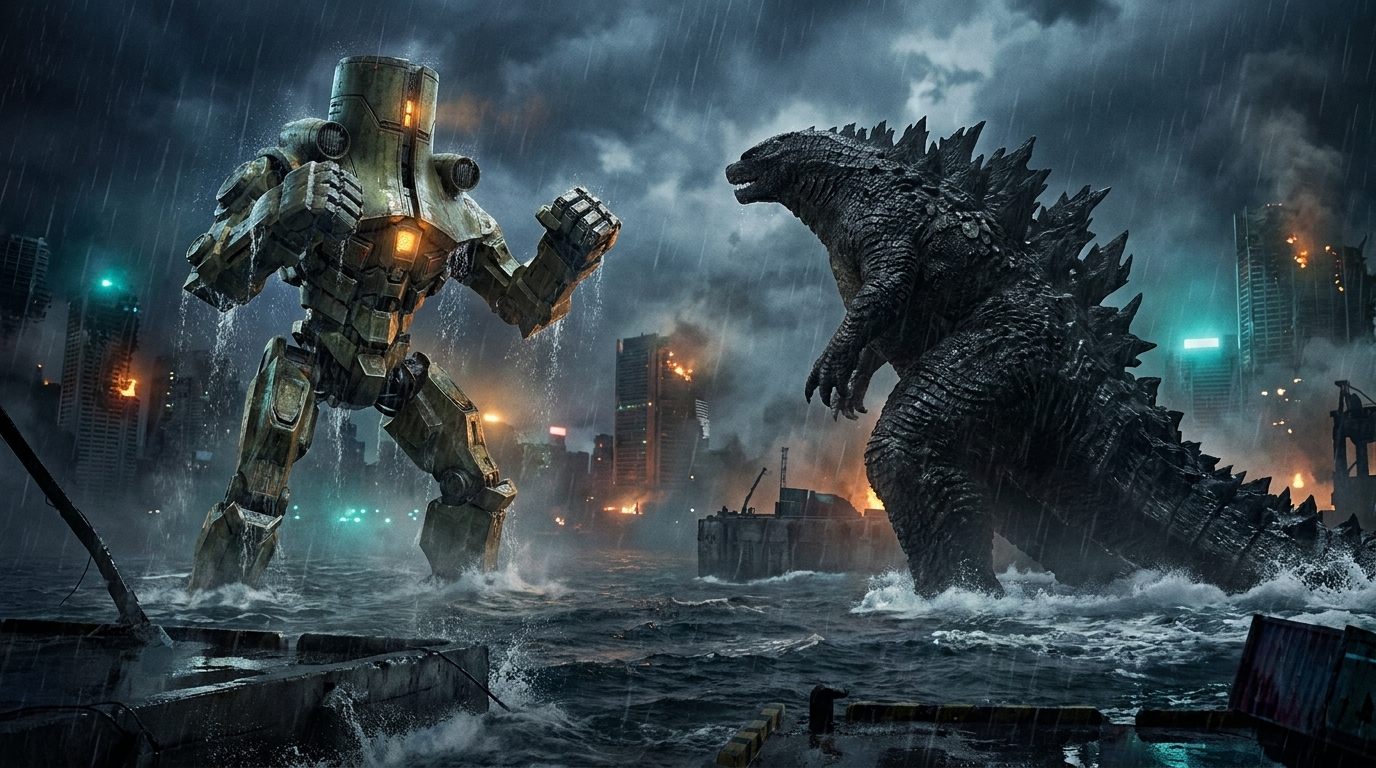
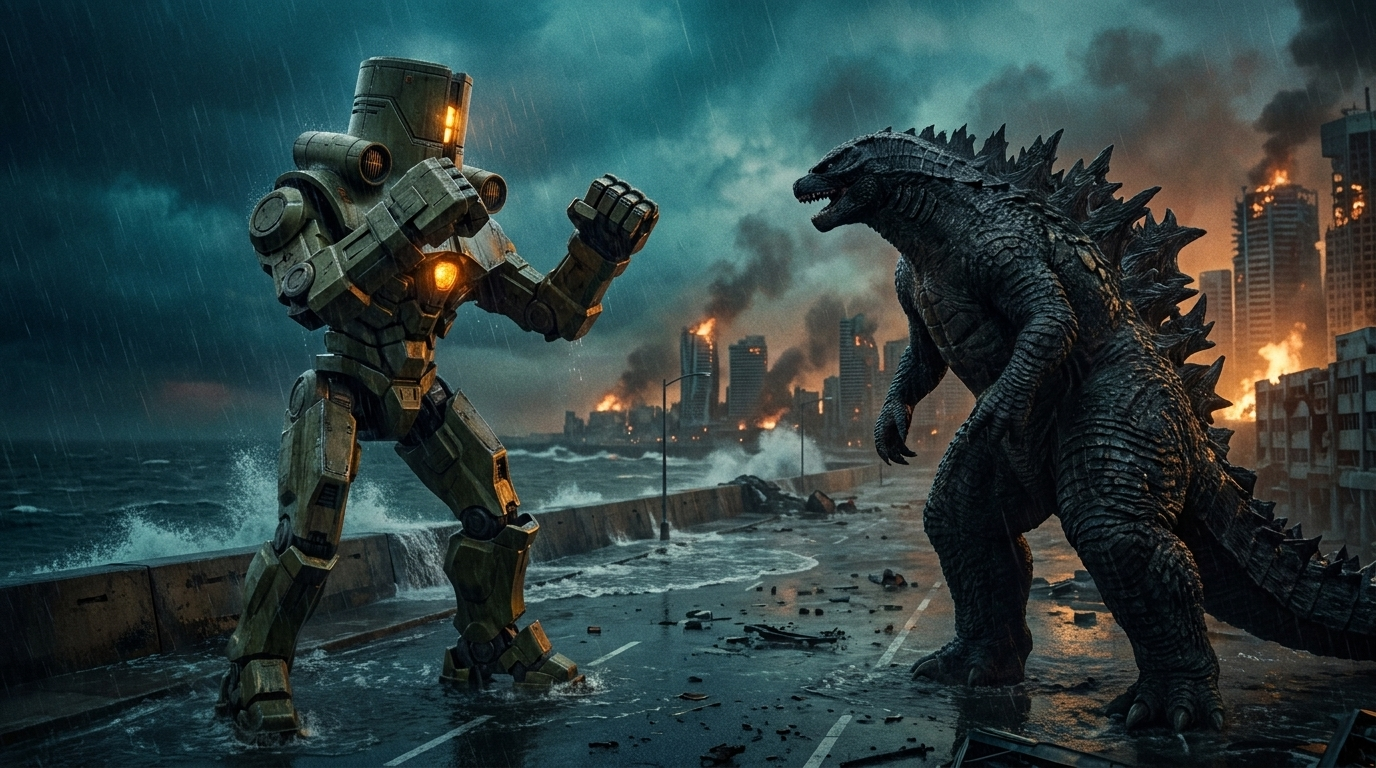
Fix beat_02 (shot_05-08) seawall-to-street jump trajectory and landing recoil continuity

diff --git a/scripts/studio/manifest.py b/scripts/studio/manifest.py
@@ -557,6 +557,8 @@ def shot_reference_paths(manifest: dict, shot: dict, proj_dir: Path = None, limi
 
     for p in shot.get("reference_images", []):
         push(p)
+    if shot.get("strict_reference_images") and ordered:
+        return ordered[:limit] if limit else ordered
 
     # Nếu shot có ô tham chiếu bố cục cắt từ Storyboard Grid và đang cần nâng cấp lên Hero Frame 1080p
     if shot.get("grid_panel_start_path") and shot.get("use_grid_layout_ref", True):

diff --git a/projects/cherno-alpha-vs-godzilla/PROGRESS.md b/projects/cherno-alpha-vs-godzilla/PROGRESS.md
@@ -21,7 +21,7 @@ Kết thúc phiên: `media-push` rồi `git add -A && git commit && git push` (q
 - **Slug:** `cherno-alpha-vs-godzilla` — thư mục `projects/cherno-alpha-vs-godzilla/` (KHÔNG `init` dự án mới)
 - **Flow:** https://flow.google.com/project/eba75017-1af5-48e6-b95b-1b0d6294c221
 - **Ngôn ngữ / khung:** en / 16:9; giọng dẫn `-`
-- **Cập nhật lần cuối:** 2026-10-21T21:03:20 trên máy **DESKTOP-HUP72C4** (lệnh `storyboard`)
+- **Cập nhật lần cuối:** 2026-10-21T21:28:45 trên máy **DESKTOP-HUP72C4** (lệnh `storyboard`)
 - **Storyboard:** chưa duyệt
 
 ## ▶ Bước tiếp theo: 4. 🧑 Chờ người dùng duyệt storyboard
@@ -152,6 +152,13 @@ python scripts/studio_helper.py storyboard-approve --project cherno-alpha-vs-god
 
 | Lúc | Máy | Lệnh | Kết quả |
 |---|---|---|---|
+| 10-21 21:28 | DESKTOP-HUP72C4 | `storyboard ` | ok |
+| 10-21 21:27 | DESKTOP-HUP72C4 | `flow-harvest --kind image --shots shot_06,shot_07,shot_08 --wait` | ok |
+| 10-21 21:25 | DESKTOP-HUP72C4 | `flow-generate --kind frames --shots shot_06,shot_07,shot_08 --count 2` | ok |
+| 10-21 21:23 | DESKTOP-HUP72C4 | `flow-harvest --kind image --shots shot_06,shot_07 --wait` | ok |
+| 10-21 21:22 | DESKTOP-HUP72C4 | `flow-generate --kind frames --shots shot_06,shot_07 --count 2` | ok |
+| 10-21 21:19 | DESKTOP-HUP72C4 | `flow-harvest --kind image --shots shot_05,shot_06 --wait` | ok |
+| 10-21 21:18 | DESKTOP-HUP72C4 | `flow-generate --kind frames --shots shot_05,shot_06 --count 2` | ok |
 | 10-21 21:03 | DESKTOP-HUP72C4 | `storyboard ` | ok |
 | 10-21 21:02 | DESKTOP-HUP72C4 | `storyboard ` | ok |
 | 10-21 20:59 | DESKTOP-HUP72C4 | `flow-harvest --kind image --shots shot_05 --wait` | ok |
@@ -160,10 +167,3 @@ python scripts/studio_helper.py storyboard-approve --project cherno-alpha-vs-god
 | 10-21 20:55 | DESKTOP-HUP72C4 | `lint-prompts --strict` | ok |
 | 10-21 20:55 | DESKTOP-HUP72C4 | `build-prompts ` | ok |
 | 10-21 20:20 | DESKTOP-HUP72C4 | `storyboard ` | ok |
-| 10-21 20:19 | DESKTOP-HUP72C4 | `flow-harvest --kind image --shots shot_04 --wait` | ok |
-| 10-21 20:18 | DESKTOP-HUP72C4 | `flow-generate --kind frames --count 2 --shots shot_04` | ok |
-| 10-21 20:15 | DESKTOP-HUP72C4 | `flow-harvest --kind image --shots shot_01,shot_02,shot_03,shot_04 --wait` | ok |
-| 10-21 20:14 | DESKTOP-HUP72C4 | `flow-generate --kind frames --count 2 --shots shot_01,shot_02,shot_03,shot_04` | ok |
-| 10-21 20:13 | DESKTOP-HUP72C4 | `lint-prompts --strict` | ok |
-| 10-21 20:13 | DESKTOP-HUP72C4 | `build-prompts ` | ok |
-| 10-21 20:00 | DESKTOP-HUP72C4 | `storyboard ` | ok |
